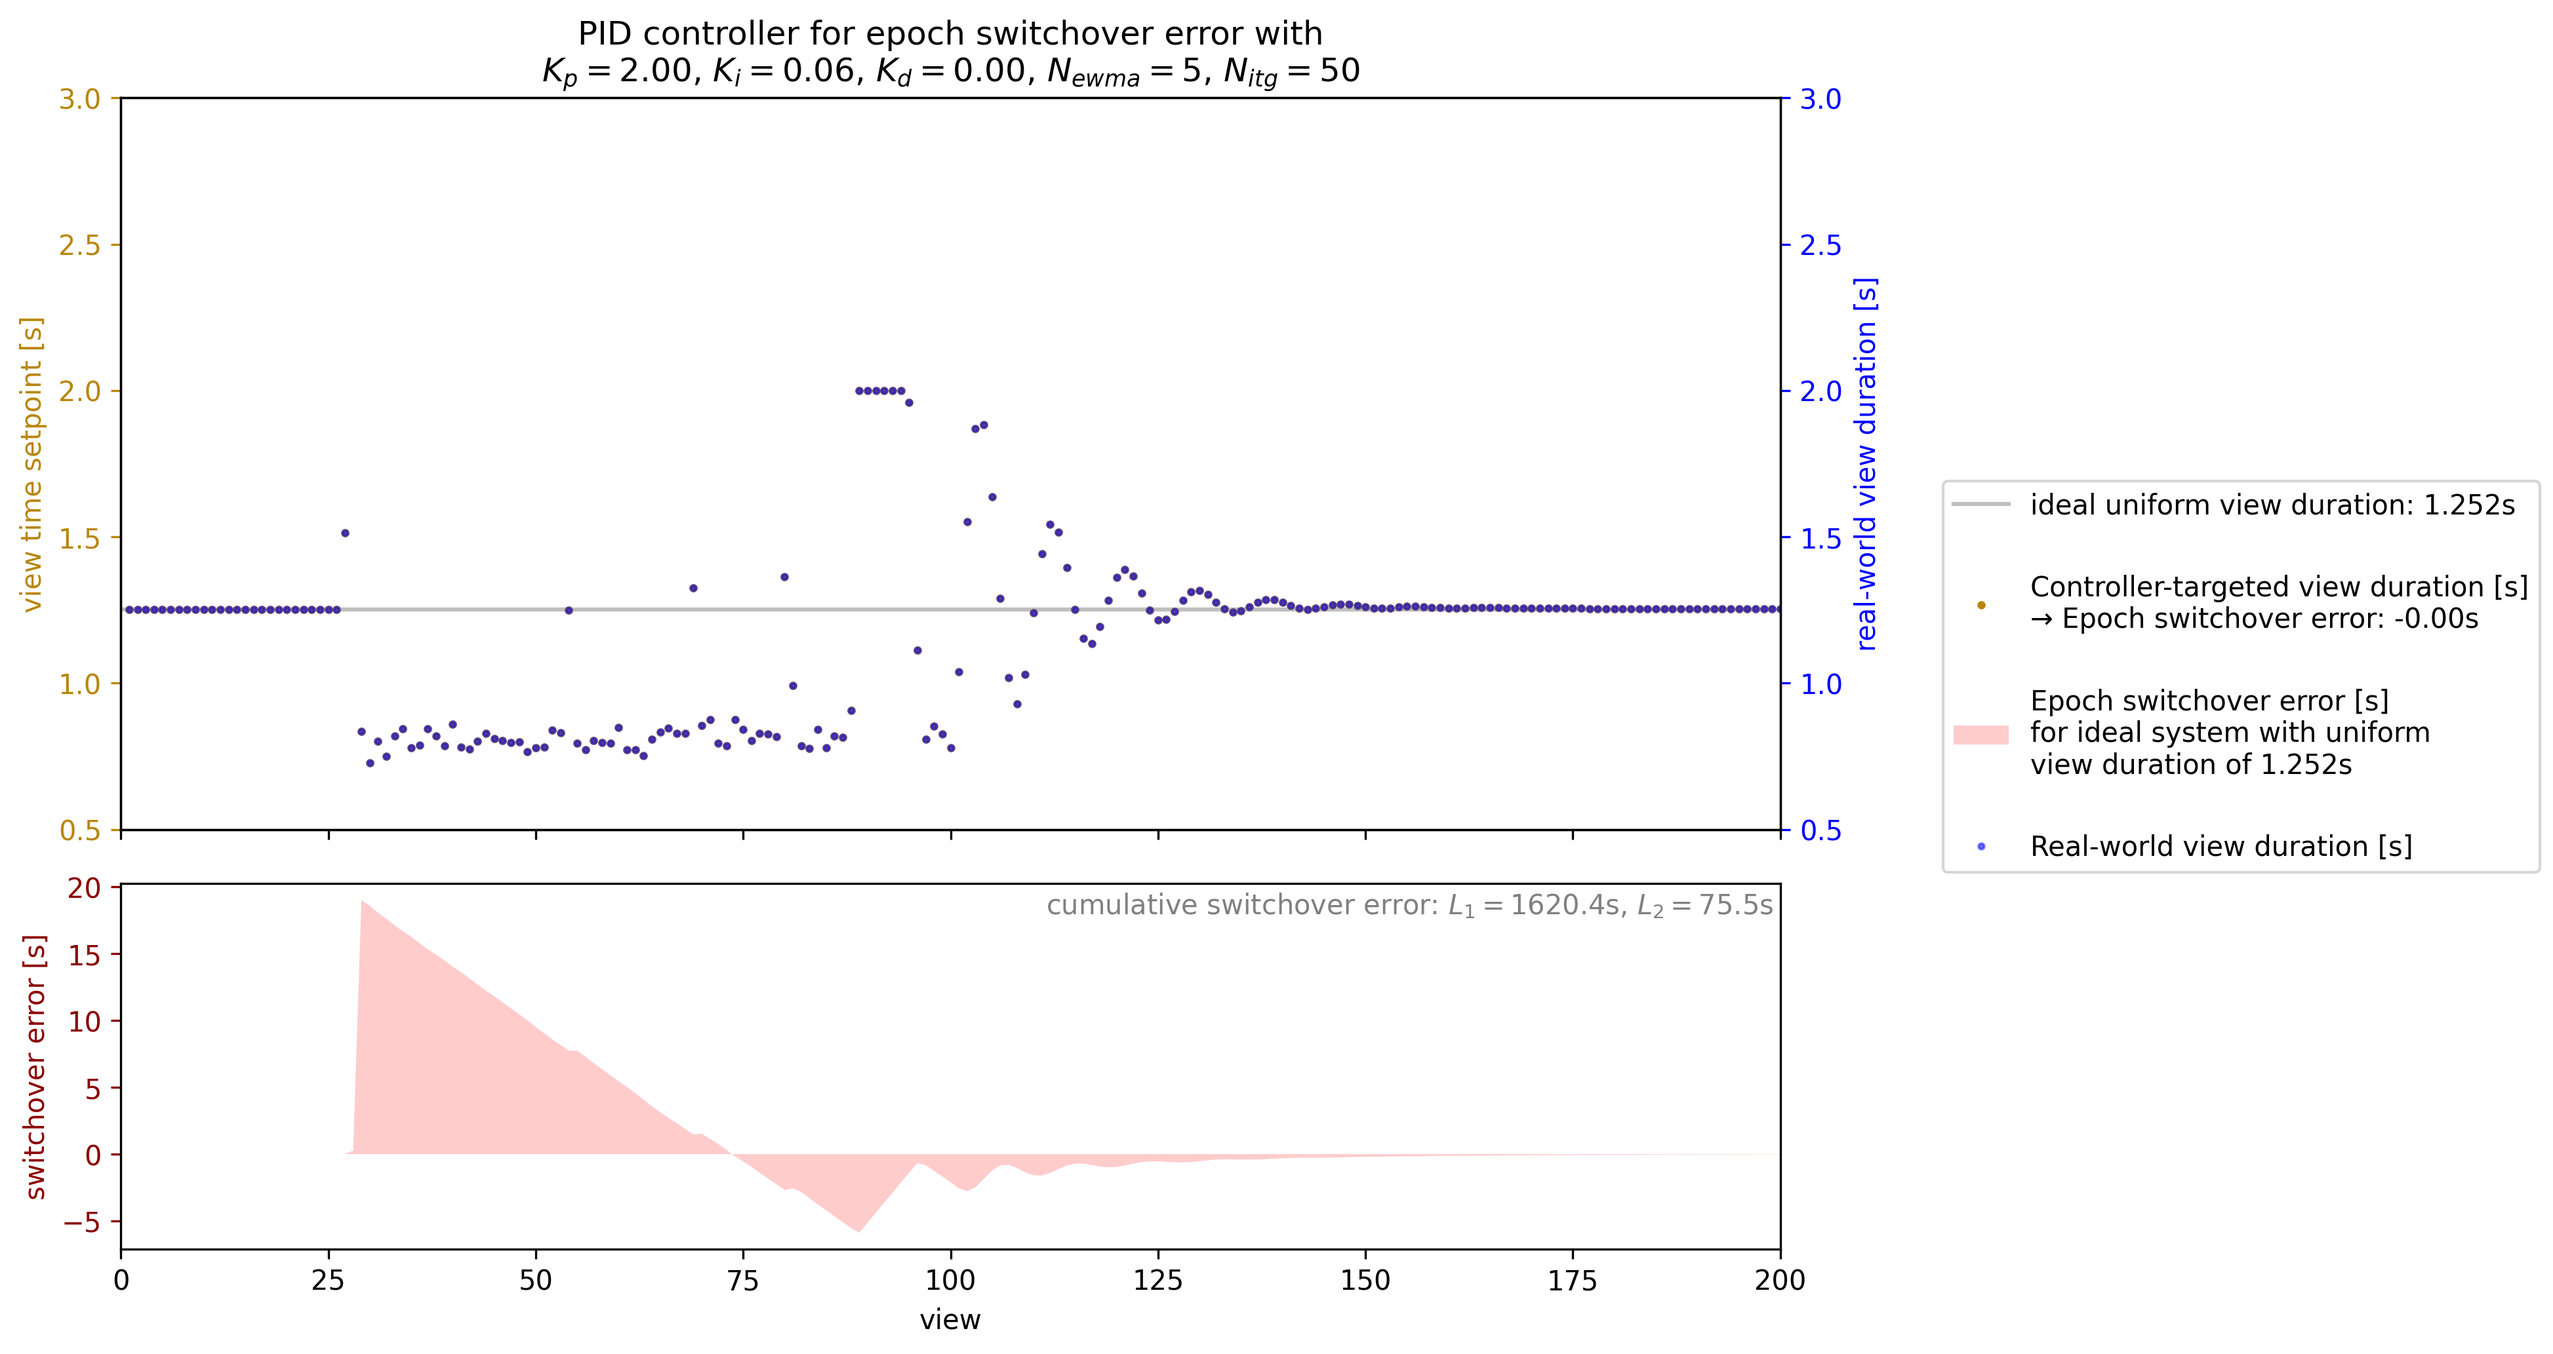
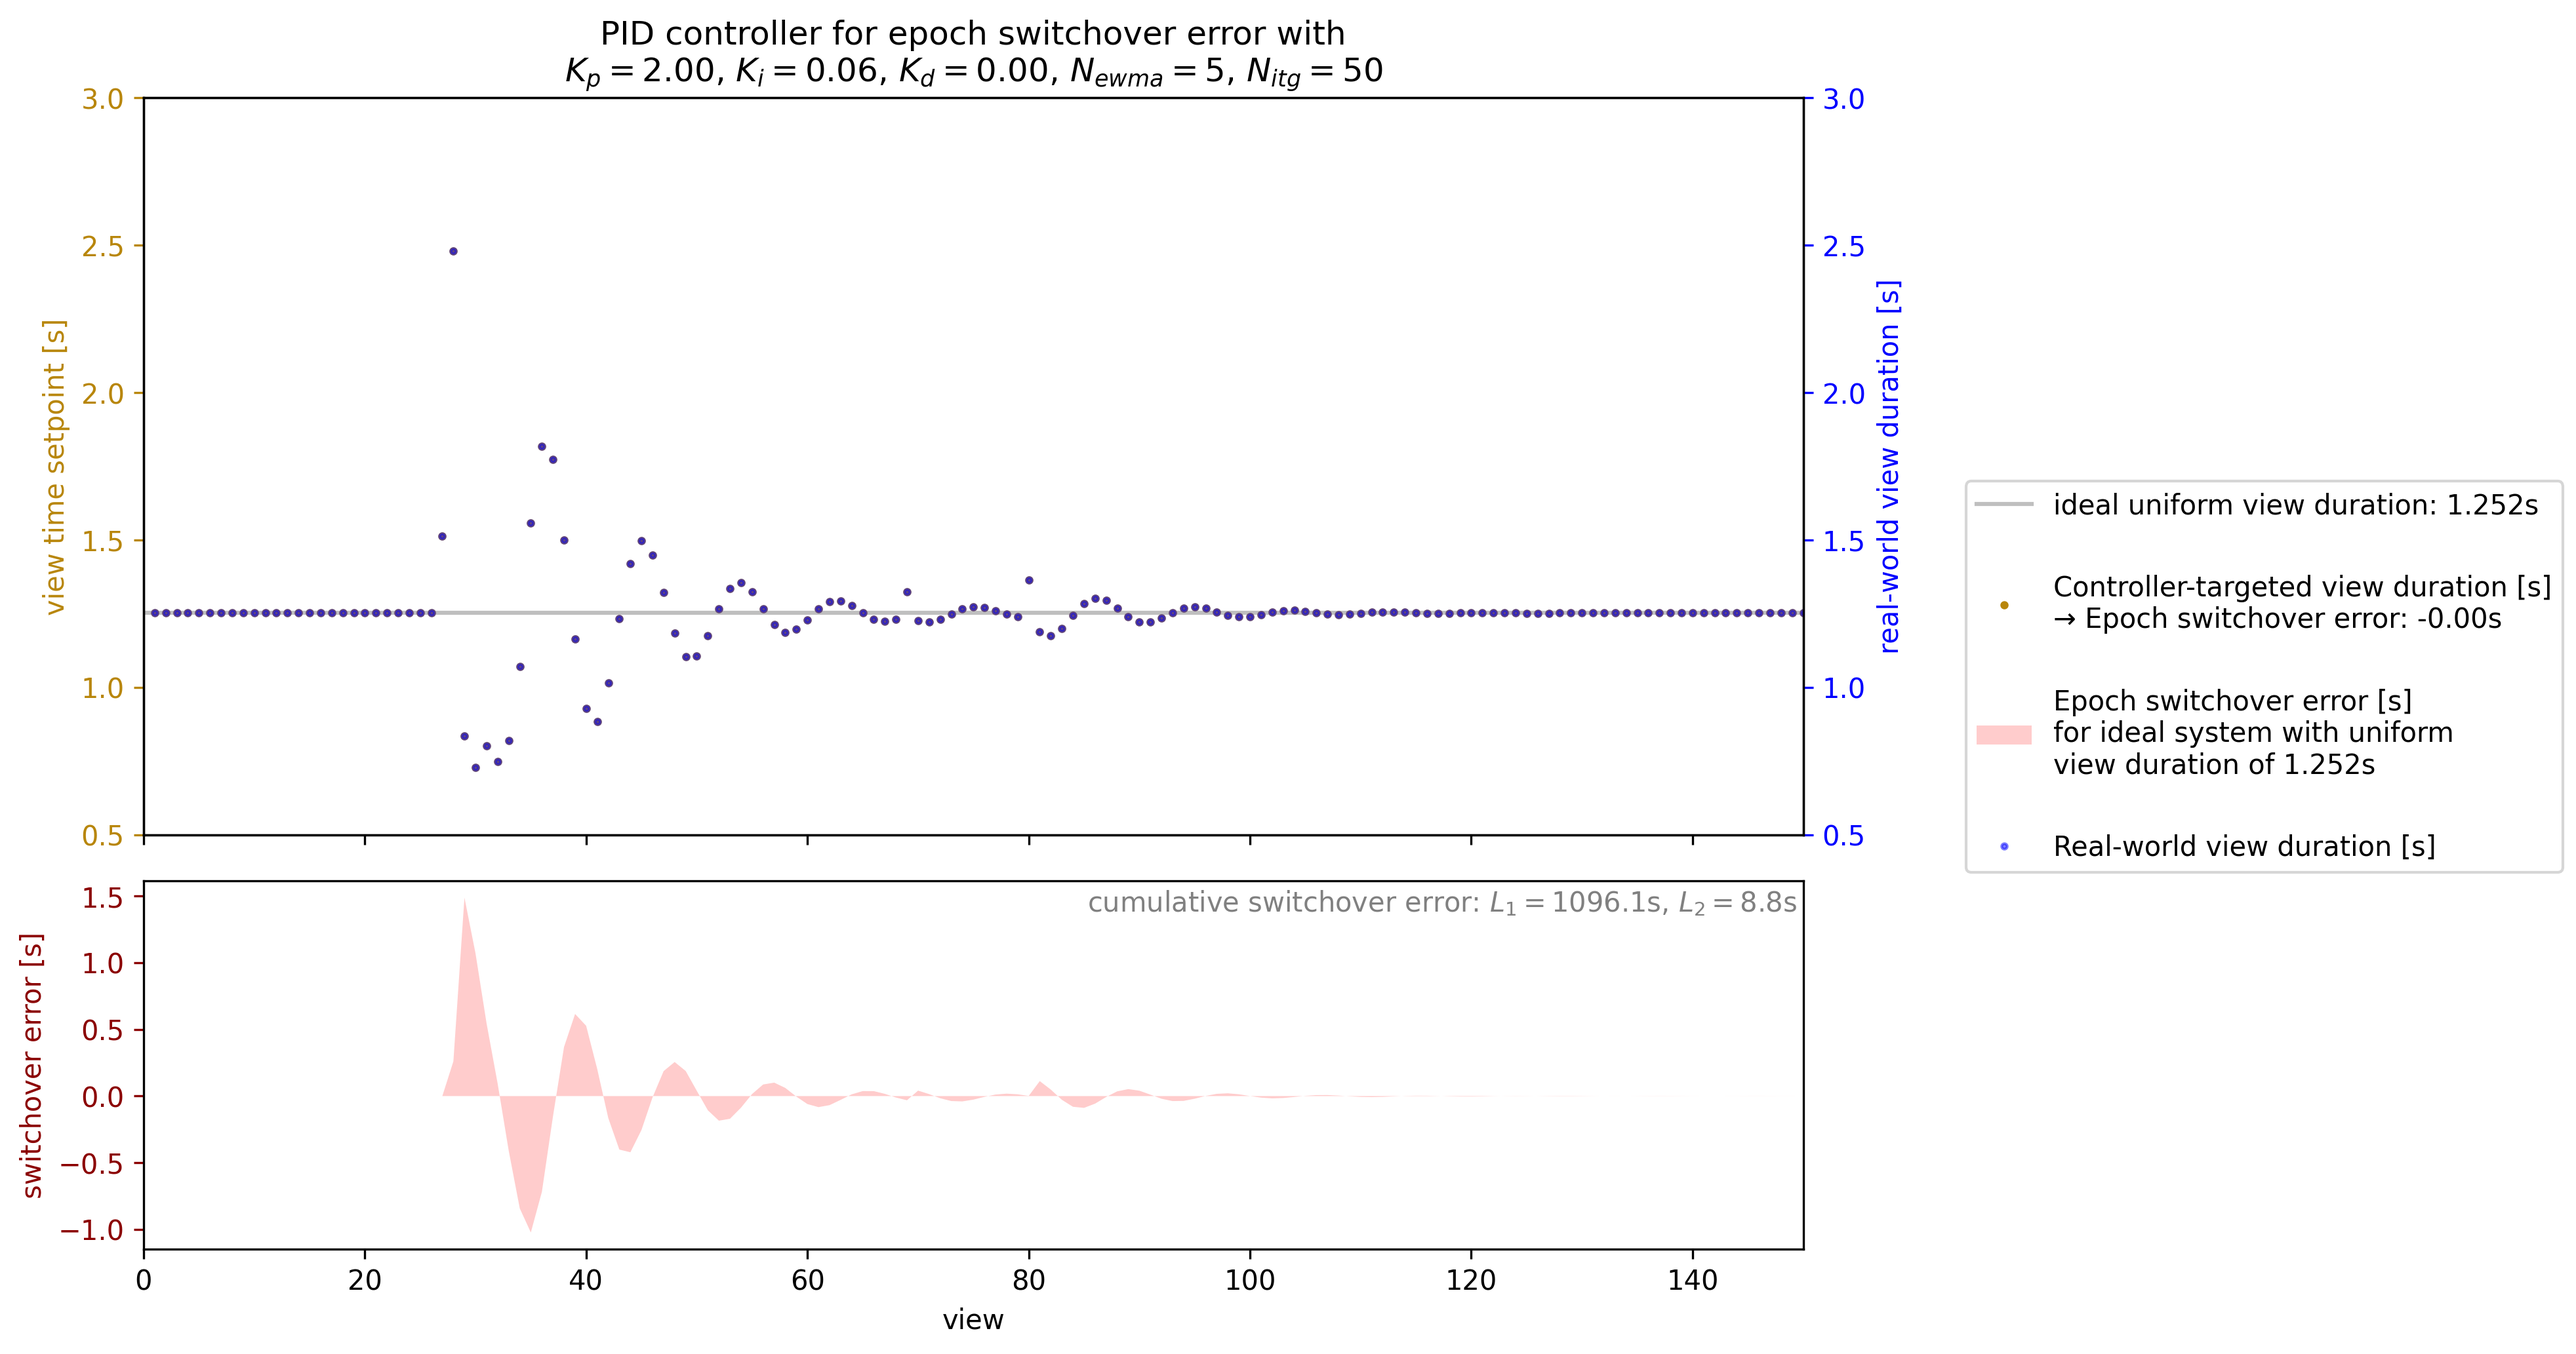
polishing readme

diff --git a/consensus/hotstuff/cruisectl/Readme.md b/consensus/hotstuff/cruisectl/Readme.md
@@ -67,9 +67,14 @@ After a disturbance, we want the controller to drive the system back to a state,
 
 - Simulations have shown that this approach produces *very* stable controller with the intended behaviour.
     
-    **Controller driving  $e := \gamma - \Gamma \,\rightarrow 0$**
+    **Controller driving  $e := \gamma - \Gamma \, \rightarrow 0$**
+    - setting the differential term $K_d=0$, the controller responds as expected with damped oscillatory behaviour
+      to a singular strong disturbance. Setting $K_d=3$ suppresses oscillations and the controller's performance improves as it responds more effectively.  
+
+      ![](/docs/CruiseControl_BlockTimeController/EpochSimulation_029.png)
+      ![](/docs/CruiseControl_BlockTimeController/EpochSimulation_030.png)
     
-    - controller very quickly compensates for minor disturbances and observational noise in a well-behaved system:
+    - controller very quickly compensates for moderate disturbances and observational noise in a well-behaved system:
 
       ![](/docs/CruiseControl_BlockTimeController/EpochSimulation_028.png)
         
@@ -131,7 +136,7 @@ In accordance with this convention, observing the proposal for the last view of 
 The goal of the controller is to drive the system towards an error of zero, i.e. $e[v] \rightarrow 0$. For a [PID controller](https://en.wikipedia.org/wiki/PID_controller), the output $u$ for view $v$ has the form: 
 
 ```math
-u[v] = K_P \cdot e[v]+K_I \cdot \mathcal{I}[v] + K_D \cdot \Delta[v]
+u[v] = K_p \cdot e[v]+K_i \cdot \mathcal{I}[v] + K_d \cdot \Delta[v]
 ```
 
 With error terms (computed from observations)
@@ -145,9 +150,9 @@ With error terms (computed from observations)
 
 and controller parameters (values derived from controller tuning): 
 
-- $K_P$ be the proportional coefficient
-- $K_I$ be the integral coefficient
-- $K_D$ be the derivative coefficient
+- $K_p$ be the proportional coefficient
+- $K_i$ be the integral coefficient
+- $K_d$ be the derivative coefficient
 
 ## Measuring view duration
 
@@ -237,14 +242,14 @@ The following parameters have proven to generate stable controller behaviour ove
 👉 The controller is given by
 
 ```math
-u[v] = K_P \cdot \bar{e}[v]+K_I \cdot \bar{\mathcal{I}}[v] + K_D \cdot \bar{\Delta}[v]
+u[v] = K_p \cdot \bar{e}[v]+K_i \cdot \bar{\mathcal{I}}[v] + K_d \cdot \bar{\Delta}[v]
 ```
 
 with parameters:
 
-- $K_P = 2.0$
-- $K_I = 0.6$
-- $K_D = 3.0$
+- $K_p = 2.0$
+- $K_i = 0.6$
+- $K_d = 3.0$
 - $N_\textnormal{ewma} = 5$, i.e. $\alpha = \frac{1}{N_\textnormal{ewma}} = 0.2$
 - $N_\textnormal{itg} = 50$, i.e.  $\beta = \frac{1}{N_\textnormal{itg}} = 0.02$
     
